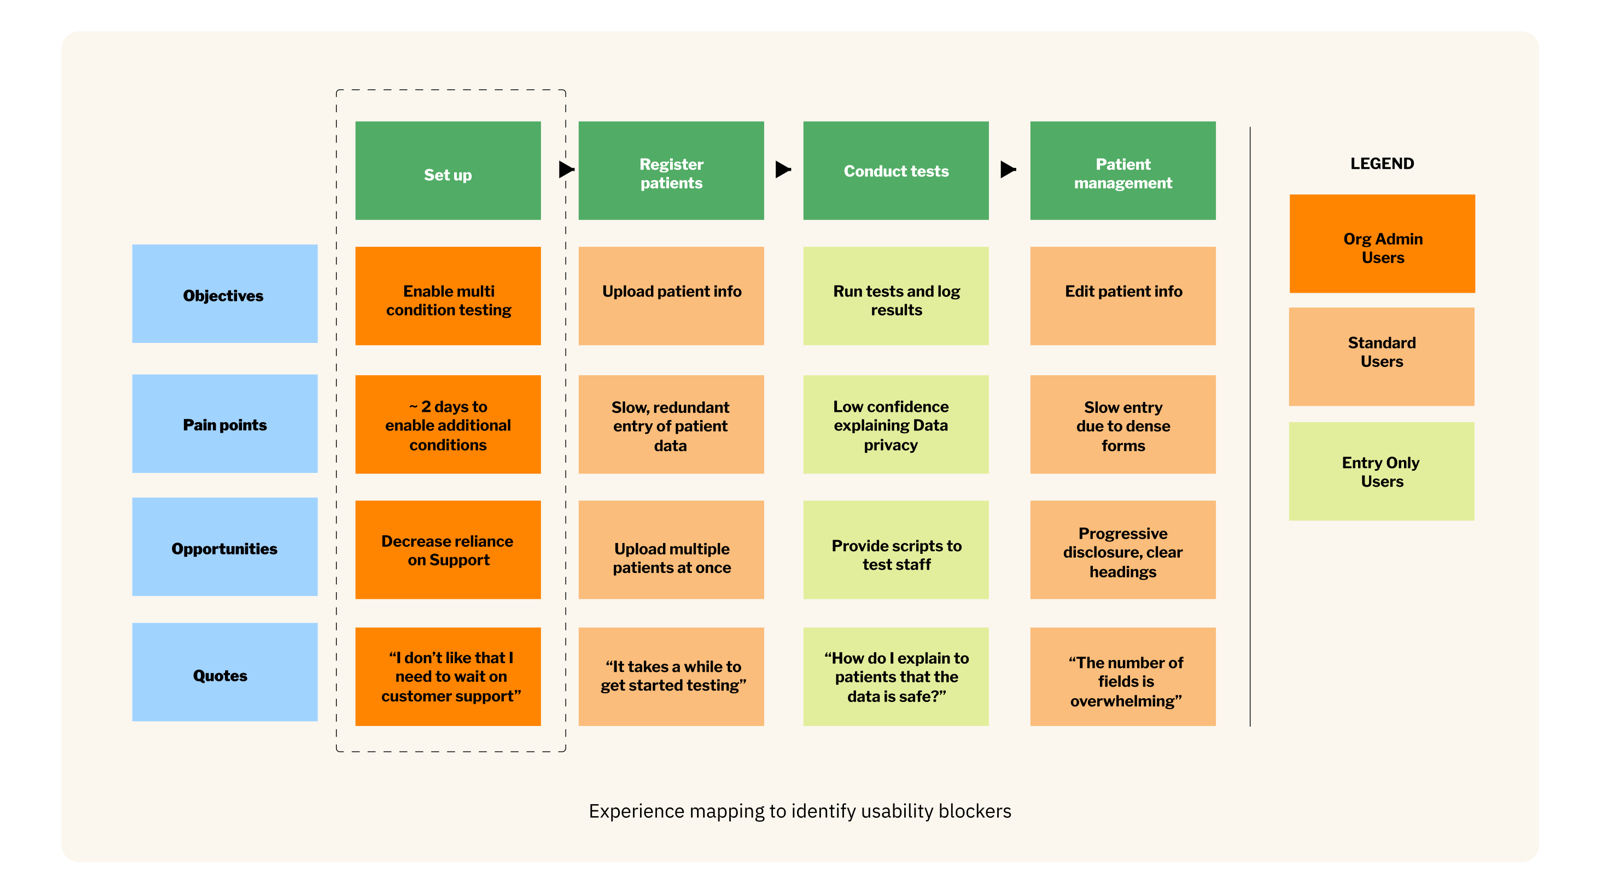
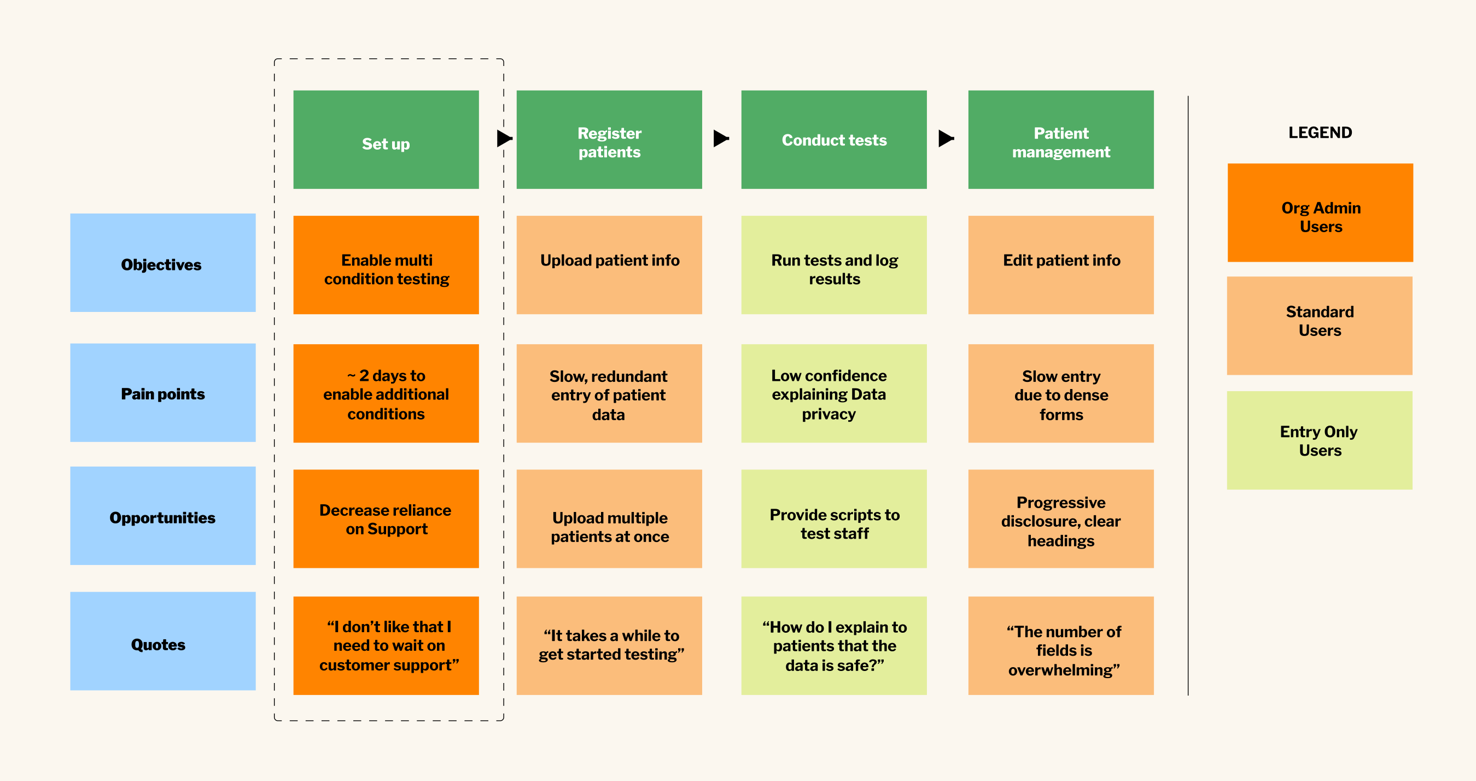
SimpleReport case study: experience map without the white background or caption

diff --git a/work/simplereport/index.html b/work/simplereport/index.html
@@ -149,7 +149,7 @@
     <p>I mapped the experience across the three user roles, from setup through registering patients, running tests and managing patient info. Setup was the biggest blocker: <q>I don’t like that I need to wait on customer support.</q></p>
 
     <figure class="slide">
-      <img src="/work/media/simplereport/case-study/experience-map.png" width="1600" height="890" loading="lazy" decoding="async" onerror="this.remove()"
+      <img src="/work/media/simplereport/case-study/experience-map.png" width="1476" height="781" loading="lazy" decoding="async" onerror="this.remove()"
         alt="Experience map across set up, register patients, conduct tests and patient management, with objectives, pain points, opportunities and a user quote for each, color-coded by role: org admin, standard and entry-only users. Set up is highlighted: about 2 days to enable additional conditions, and the quote “I don’t like that I need to wait on customer support.”">
       <figcaption class="ph" aria-hidden="true"><b>experience-map.png</b>Figma slide 1:1612 (Experience map)</figcaption>
     </figure>
